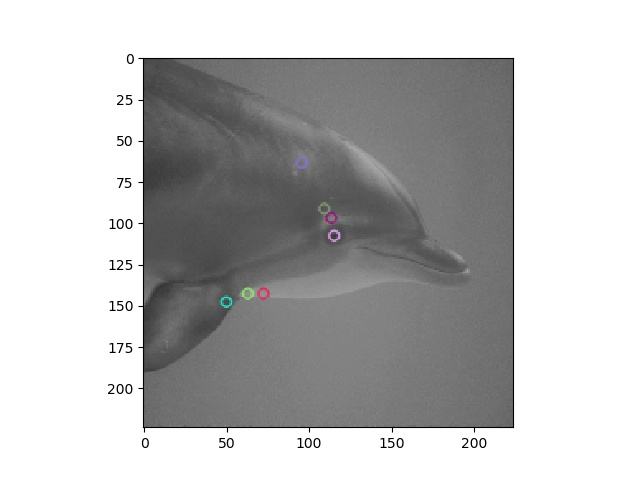
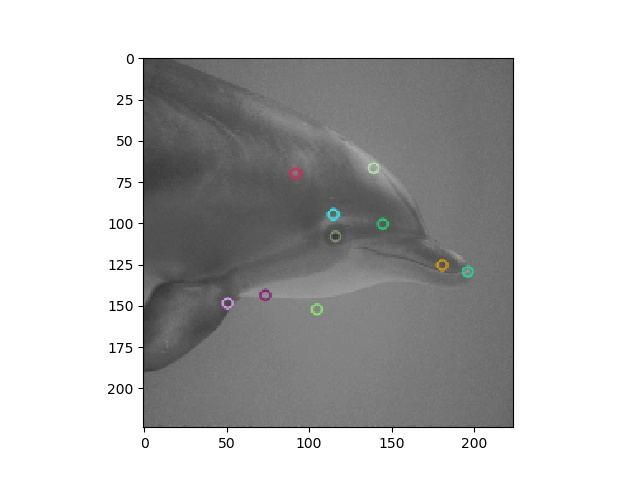
Running BOW on SIFT

diff --git a/Prj3/Encoding/BOW.py b/Prj3/Encoding/BOW.py
@@ -1,6 +1,7 @@
 import numpy as np
 import matplotlib.pyplot as plt
 import pandas as pd
+import time
 from sklearn.cluster import KMeans
 from sklearn.model_selection import train_test_split
 from sklearn.preprocessing import StandardScaler, MinMaxScaler, Normalizer
@@ -8,6 +9,8 @@ import sys
 sys.path.append("..")
 import SVMmodel
 
+SIFT_PATH = '../AwA2-data/SIFT_LD/'
+DL_PATH = '../AwA2-data/DL_LD/'
 y_file_name = "../AwA2-data/AwA2-labels.txt"
 
 f_class_dict = np.load('../f_class_dict.npy', allow_pickle=True).item()
@@ -15,16 +18,18 @@ ld_sample = np.load('../LD_for_clustering.npy', allow_pickle=True)
 
 def BOW(k):
     feature = []
+    print("Start clustering")
     model = KMeans(n_clusters=k, copy_x=False, n_jobs=8)
     model.fit(ld_sample)
+    print("Clustering Ended")
 
     for className, totalNum in f_class_dict.items():
         print("SS at %s" % (className))
         for idx in range(10001, totalNum + 1):
-            ld = np.load(className + '/' + className + '_' + str(idx) + '.npy', allow_pickle=True)  # 2d np array
+            ld = np.load(SIFT_PATH + className + '/' + className + '_' + str(idx) + '.npy', allow_pickle=True)  # 2d np array
             bow = np.zeros((1, k))
             for des in ld:
-                bow[model.predict(des.reshape(1, -1))[0]] += 1
+                bow[0][model.predict(des.reshape(1, -1))[0]] += 1
             feature.append(bow)
     return np.vstack(feature)
 
@@ -64,3 +69,9 @@ def main():
                 with open('res_BOW.txt', "a") as f:
                     f.write("BOW with k=%d, scale=%s, SVM with %d kernel, C=%f, score=%f\n"%(k, method, 'linear', C, linear_score))
                     f.write("BOW with k=%d, scale=%s, SVM with %d kernel, C=%f, score=%f\n"%(k, method, 'rbf', C, rbf_score))
+
+if __name__ == '__main__':
+    start = time.time()
+    main()
+    end = time.time()
+    print(end - start)

diff --git a/Prj3/Encoding/VLAD.py b/Prj3/Encoding/VLAD.py
@@ -11,6 +11,8 @@ import sys
 sys.path.append("..")
 import SVMmodel
 
+SIFT_PATH = '../AwA2-data/SIFT_LD/'
+DL_PATH = '../AwA2-data/DL_LD/'
 y_file_name = "../AwA2-data/AwA2-labels.txt"
 
 f_class_dict = np.load('../f_class_dict.npy', allow_pickle=True).item()
@@ -18,13 +20,15 @@ ld_sample = np.load('../LD_for_clustering.npy', allow_pickle=True)
 
 def VLAD(k):
     feature = []
+    print("Start clustering")
     model = KMeans(n_clusters=k, copy_x=False, n_jobs=8)
     model.fit(ld_sample)
+    print("Clustering Ended")
 
     for className, totalNum in f_class_dict.items():
         print("SS at %s" % (className))
         for idx in range(10001, totalNum + 1):
-            ld = np.load(className + '/' + className + '_' + str(idx) + '.npy', allow_pickle=True)  # 2d np array
+            ld = np.load(SIFT_PATH + className + '/' + className + '_' + str(idx) + '.npy', allow_pickle=True)  # 2d np array
             vlad = [np.zeros((1, ld.shape[1])) for i in range(k)]
             for des in ld:
                 label = model.predict(des)[0]
@@ -68,3 +72,6 @@ def main():
             with open('res_VLAD_LDA.txt', "a") as f:
                 f.write("VLAD with k=%d, Z-score, SVM with %d kernel, C=%f, score=%f\n"%(k, 'linear', C, linear_score))
                 f.write("VLAD with k=%d, Z-score, SVM with %d kernel, C=%f, score=%f\n"%(k, 'rbf', C, rbf_score))
+
+if __name__ == '__main__':
+    main()

diff --git a/Prj3/Encoding/FV.py b/Prj3/Encoding/FV.py
@@ -13,6 +13,8 @@ import sys
 sys.path.append("..")
 import SVMmodel
 
+SIFT_PATH = '../AwA2-data/SIFT_LD/'
+DL_PATH = '../AwA2-data/DL_LD/'
 y_file_name = "../AwA2-data/AwA2-labels.txt"
 
 f_class_dict = np.load('../f_class_dict.npy', allow_pickle=True).item()
@@ -20,13 +22,15 @@ ld_sample = np.load('../LD_for_clustering.npy', allow_pickle=True)
 
 def FV(k):
     feature = []
+    print("Start clustering")
     model = GaussianMixture(n_components=k)
     model.fit(ld_sample)
+    print("Clustering Ended")
 
     for className, totalNum in f_class_dict.items():
         print("SS at %s" % (className))
         for idx in range(10001, totalNum + 1):
-            ld = np.load(className + '/' + className + '_' + str(idx) + '.npy', allow_pickle=True)  # 2d np array
+            ld = np.load(SIFT_PATH + className + '/' + className + '_' + str(idx) + '.npy', allow_pickle=True)  # 2d np array
             fv = [np.zeros((1, ld.shape[1])) for i in range(2 * k)]
             for i in range(k):
                 for des in ld:
@@ -77,3 +81,6 @@ def main():
             with open('res_FV_LDA.txt', "a") as f:
                 f.write("FV with k=%d, Z-score, SVM with %d kernel, C=%f, score=%f\n"%(k, 'linear', C, linear_score))
                 f.write("FV with k=%d, Z-score, SVM with %d kernel, C=%f, score=%f\n"%(k, 'rbf', C, rbf_score))
+
+if __name__ == '__main__':
+    main()

diff --git a/Prj3/SIFT/drawDemo.py b/Prj3/SIFT/drawDemo.py
@@ -3,14 +3,14 @@ import matplotlib.pyplot as plt
 import cv2
 
 imageName = "../AwA2-data/JPEGImages/antelope/antelope_10001.jpg"
-# imageName = "../dolphin_10180.jpg"
-# imageName = "../humpback+whale_10428.jpg"
+# imageName = "../ImgChanged/dolphin_10180.jpg"
+# imageName = "../ImgChanged/humpback+whale_10428.jpg"
 
 def drawDemo(imageName):
     image = cv2.imread(imageName)
     image = cv2.resize(image, (224, 224))
     gray_image = cv2.cvtColor(image, cv2.COLOR_BGR2GRAY)
-    sift = cv2.xfeatures2d.SURF_create(400)
+    sift = cv2.xfeatures2d.SIFT_create()
     kp, des = sift.detectAndCompute(image, None)
     result = cv2.drawKeypoints(gray_image, kp, None)
     plt.imshow(result)

diff --git a/Prj3/ShuffleSelectLD.py b/Prj3/ShuffleSelectLD.py
@@ -9,9 +9,9 @@ def shuffleSelectorClass(className, tot, prop):
     #print(className + '_10001 ', end='')
     for i in range(10002, tot + 1):
         tmp = np.load(SIFT_PATH + className + '/' + className + '_' + str(i) + '.npy', allow_pickle=True) # 2d np array
-        #print(className + '_' + str(i) + ' ', end='')
-        #print(tmp.shape)
-        np.concatenate((pool, tmp))
+        print(className + '_' + str(i) + ' ', end='')
+        print(tmp.shape)
+        pool = np.concatenate((pool, tmp))
     rand_array = np.arange(pool.shape[0])
     np.random.shuffle(rand_array)
     num = pool.shape[0] // prop
